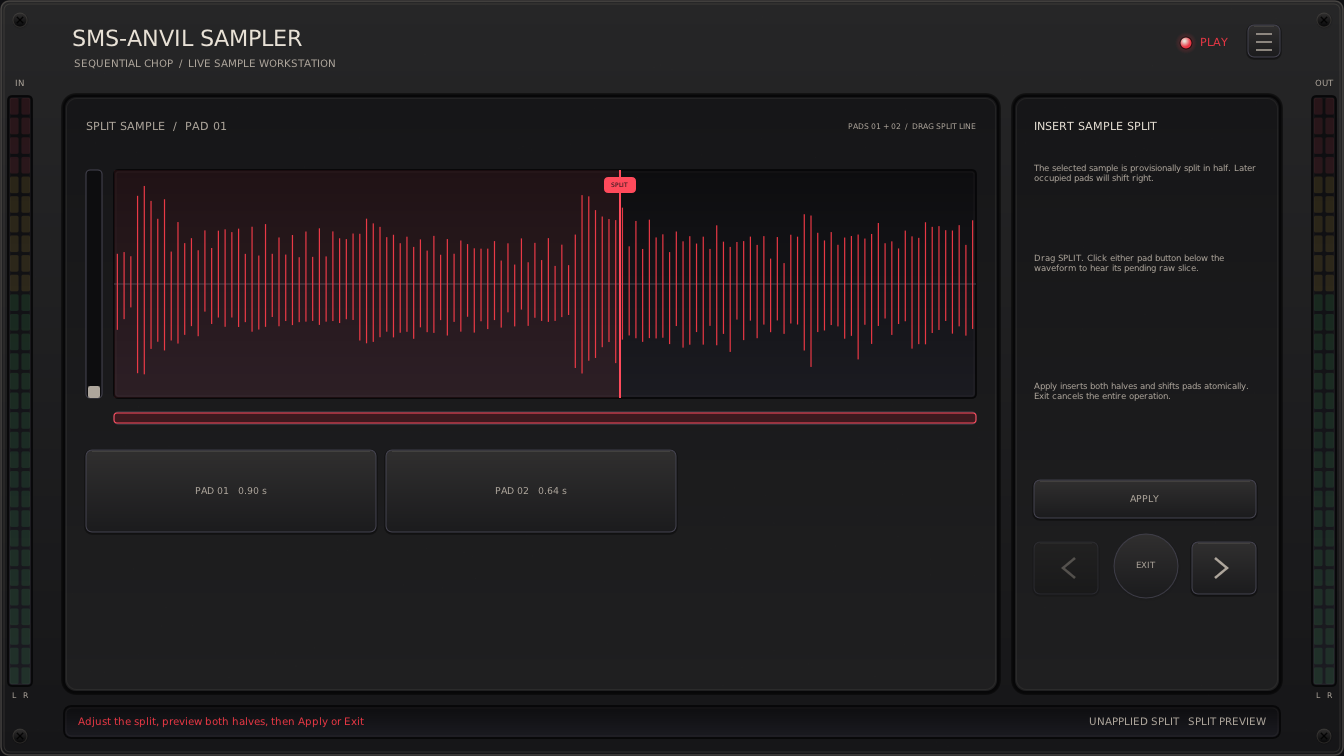
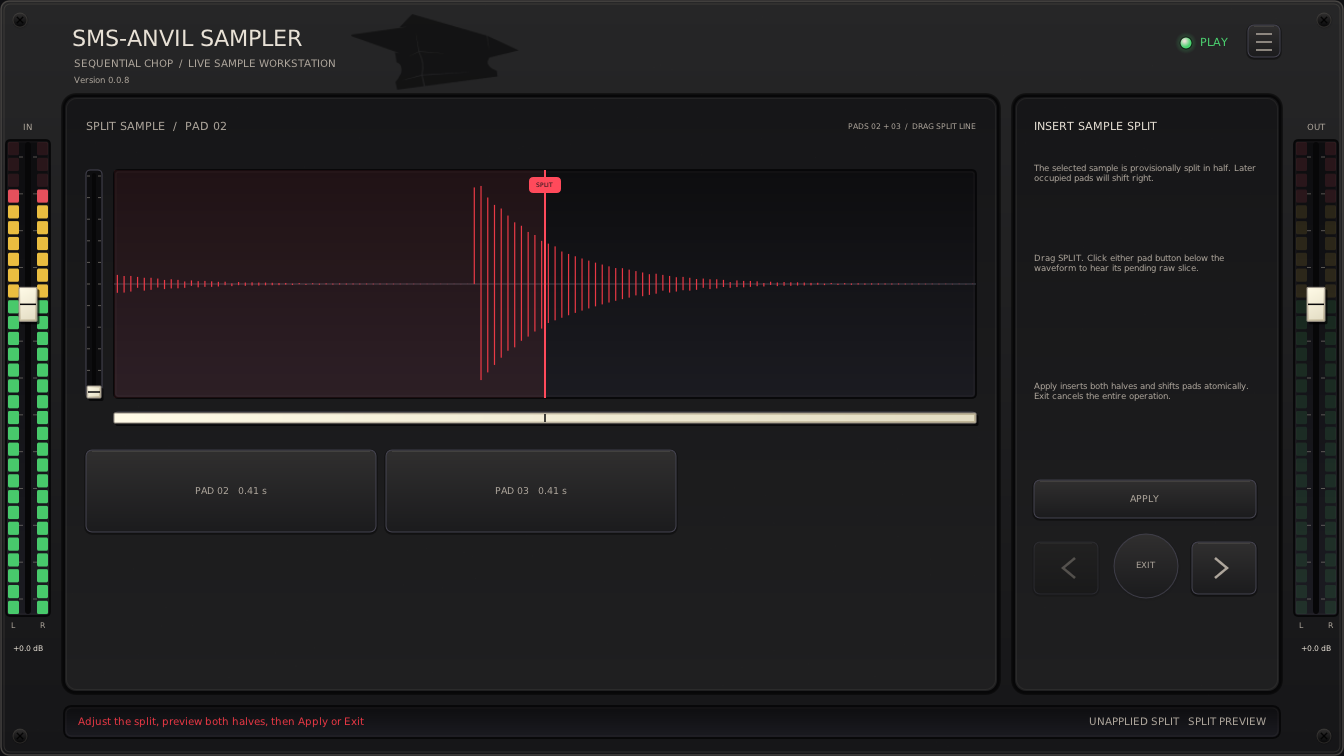
Refresh sampler screenshots and bump version to 0.0.8
Replace all seven documentation screenshots with inspected plugin-window
captures of the current UI. Update both README image links and remove the
stale versioned overview.

Rebuild VST3/LV2 and verify all six test suites, LV2 discovery, and documentation
checks for version 0.0.8.

diff --git a/SMS-AnvilSampler/README.md b/SMS-AnvilSampler/README.md
@@ -4,7 +4,7 @@ _A live stereo chopping sampler for Linux._
 
 > Special thanks to **Manolo Anville** ([@ManoloAnville](https://github.com/ManoloAnville)) for collaboration.
 
-![SMS-Anvil Sampler interface](Docs/SMS-AnvilSampler-v0.0.6.png)
+![SMS-Anvil Sampler interface](Docs/SMS-AnvilSampler-v0.0.8.png)
 
 **VST3 is the preferred version.** Its GUI loads faster than LV2, and it has been generally human-tested the most. LV2 is mostly AI-tested, and CLAP (if even made available) has NOT been tested.
 

diff --git a/README.md b/README.md
@@ -17,7 +17,7 @@ I choose **quality over quantity**. Slow and steady. I only build what I'm also 
 - [SMS-Anvil Sampler](SMS-AnvilSampler/README.md) — live stereo chopping sampler
   for LV2 and VST3.
 
-![SMS-Anvil Sampler interface](SMS-AnvilSampler/Docs/SMS-AnvilSampler-v0.0.6.png)
+![SMS-Anvil Sampler interface](SMS-AnvilSampler/Docs/SMS-AnvilSampler-v0.0.8.png)
 
 
 ## Quick Start: AI autopilot in an isolated container
